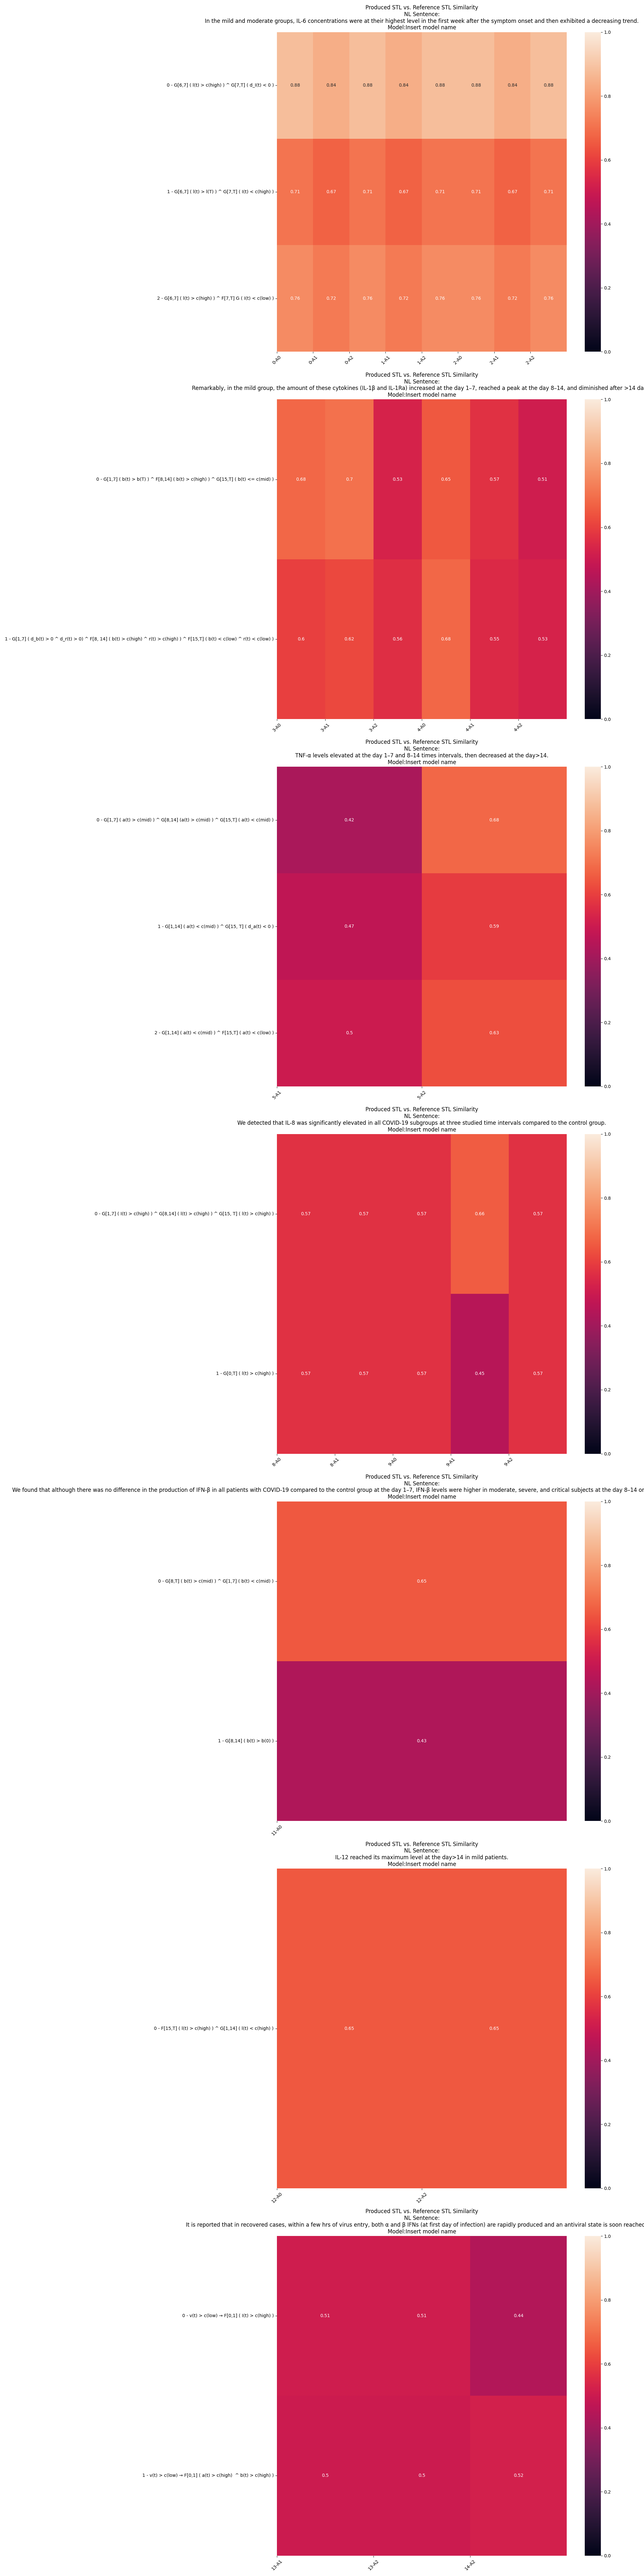
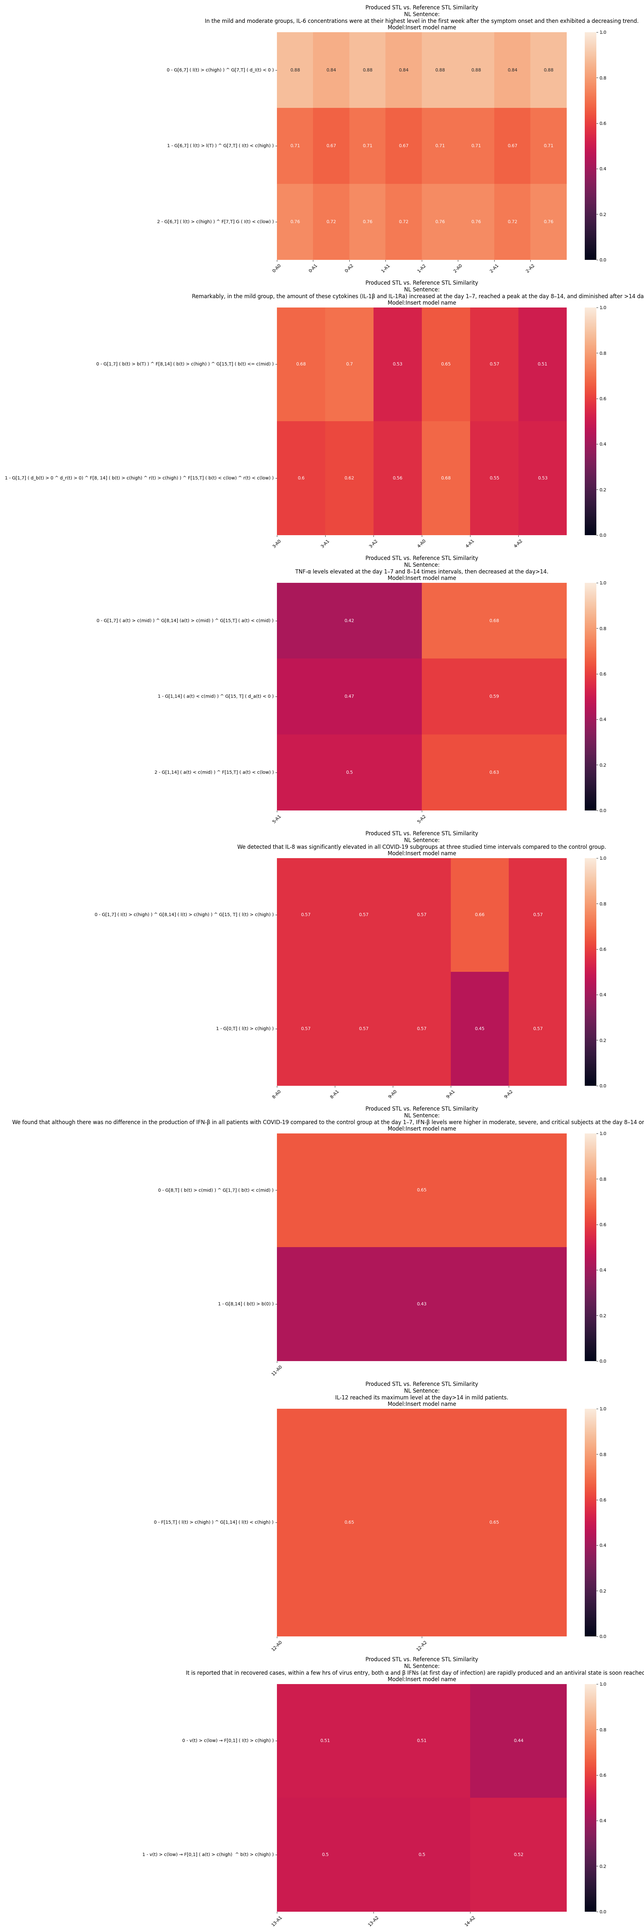
dsfs

diff --git a/ollama_container/heatmap_generators/stl_evaluation.py b/ollama_container/heatmap_generators/stl_evaluation.py
@@ -216,7 +216,7 @@ print("lskjdkljlkjljl")
 print(len(stl_matrix_arr))
 
 # Export {stl_matrix_arr}-many plots
-fig, axs = plt.subplots(len(stl_matrix_arr), 1, figsize=(20,80))
+fig, axs = plt.subplots(len(stl_matrix_arr), 1, figsize=(20,60))
 axs = np.atleast_1d(axs)
 
 # Print all the heatmaps
